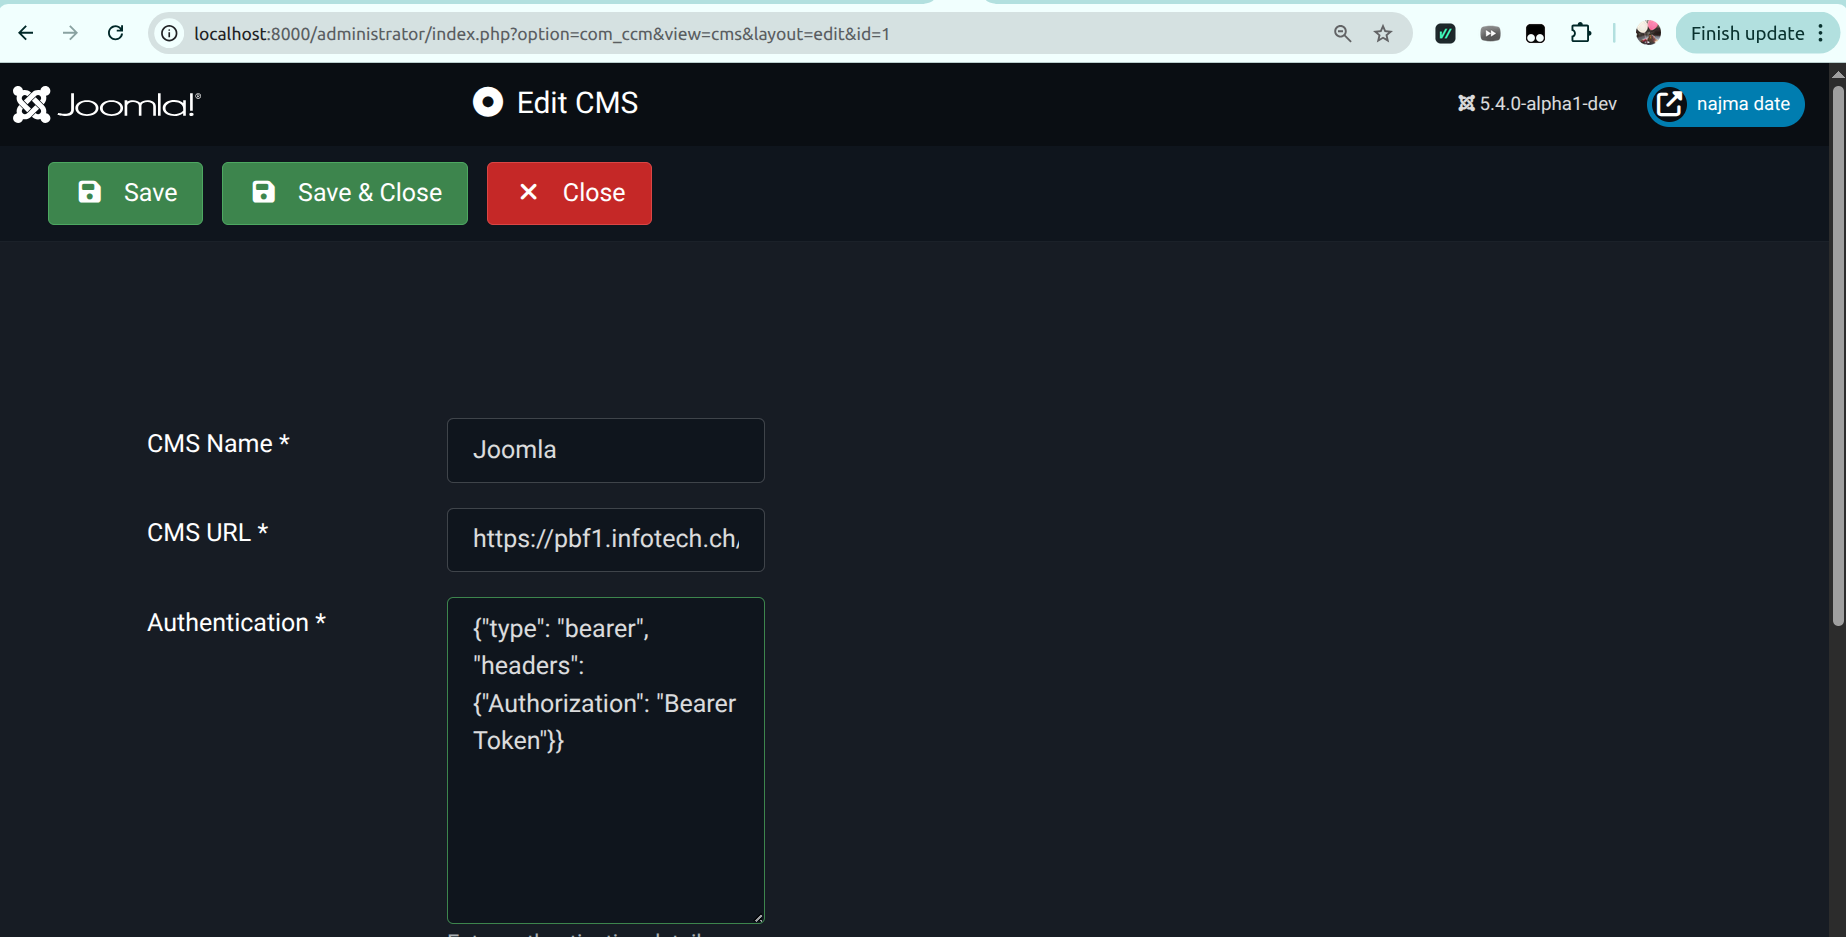
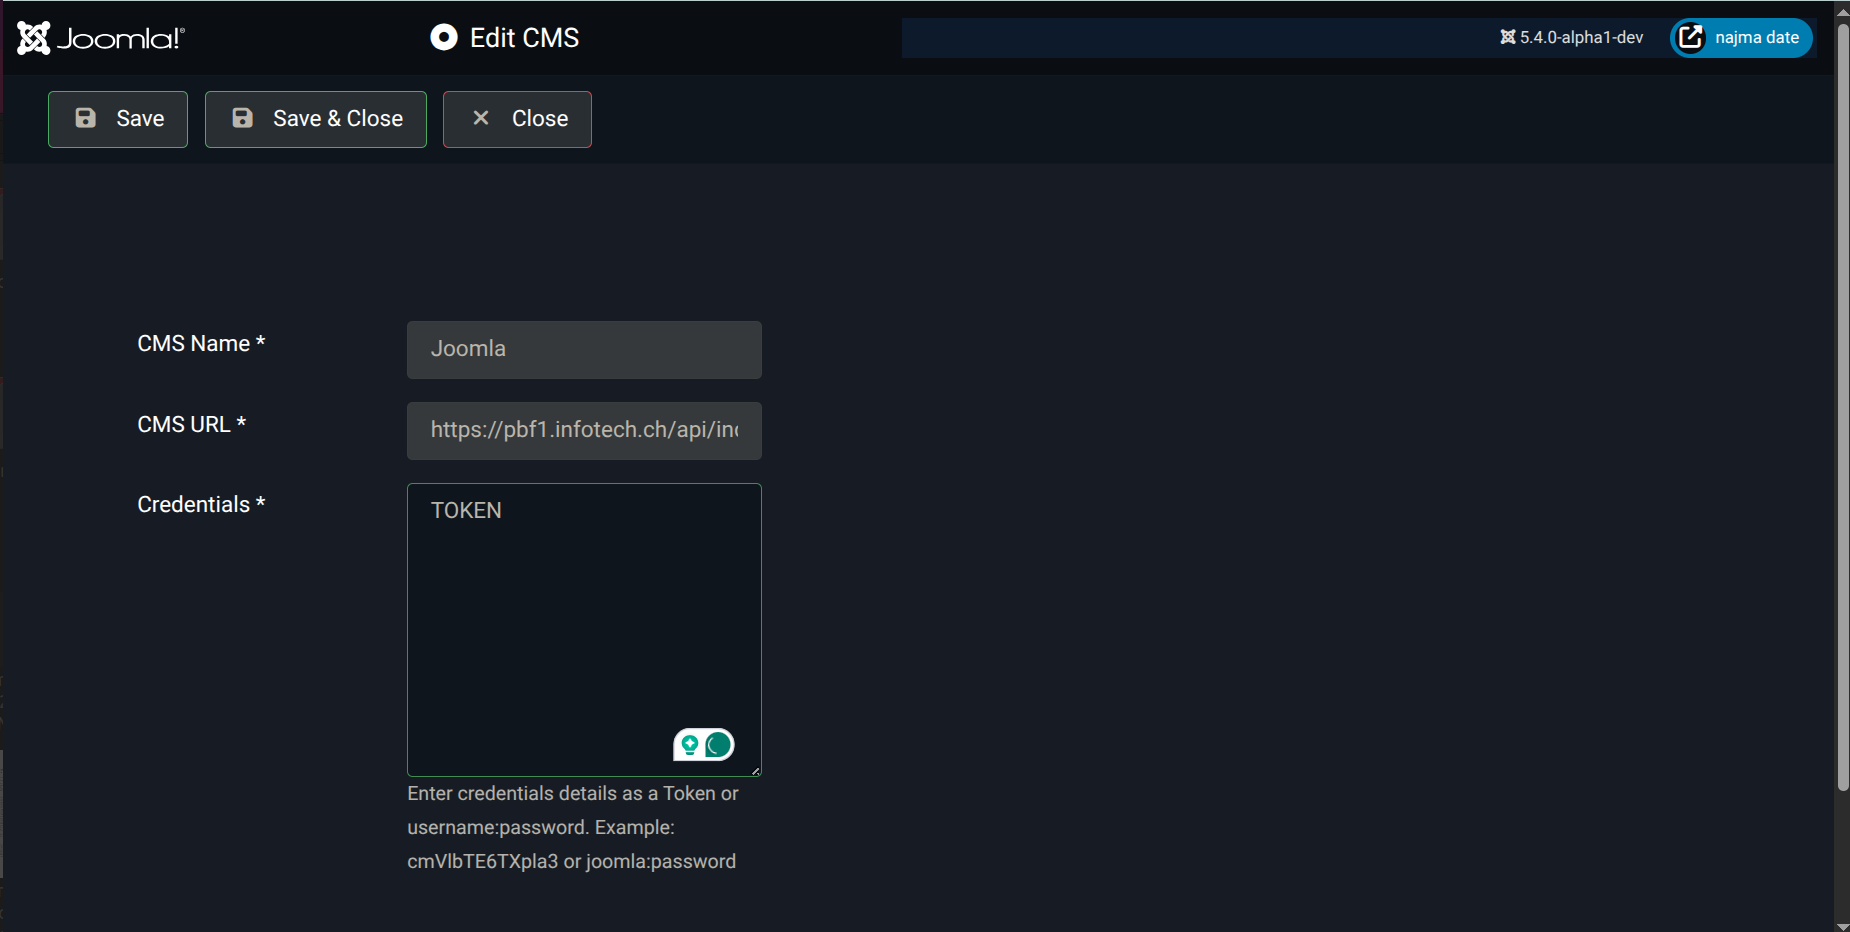
update the authentication guidance in the user guide

diff --git a/docs/USER_GUIDE.md b/docs/USER_GUIDE.md
@@ -42,7 +42,7 @@ The component will automatically create the required database tables upon instal
 3. Update the CMS details:
    - **Name**: Descriptive name for the CMS
    - **URL**: Base URL of the source CMS
-   - **Credentials**: API keys or authentication details. Refer to [Auth Guidance](AUTHENTICATION_GUIDE.md) for developer details.
+   - **Credentials**: API keys or authentication details. Follow the next steps to get the credentials. Refer to [Auth Guidance](AUTHENTICATION_GUIDE.md) for developer details.
 
 ### 2. Obtaining CMS Credentials & Adding them in Joomla CMS
 
@@ -58,10 +58,8 @@ Before you can migrate content, you need to obtain the proper API credentials fo
    - Copy the generated password
    - In CMS Management, choose "WordPress"
    ![CMSs Page image](images/cmss.png)
-   - We need a base64 generator (e.g., [Base64 Encode](https://www.debugbear.com/basic-auth-header-generator))
-   put your WordPress username and password, then take the generated authentication (e.g. Authorization: Basic UmVlbTpQYXNzd29yZA==) 
-   ![WordPress CMS Auth image](images/wordpress%20auth.png)
-   - Add them in the WordPress auth
+   - We need the username and the password.
+   - Add them in the WordPress credentials like the following:
    ![WordPress CMS Page image](images/wordpress%20cms.png)
 
 #### For Joomla
@@ -73,7 +71,7 @@ Before you can migrate content, you need to obtain the proper API credentials fo
    - Click **Save**
    - Copy the generated token
    - In CMS Management, choose "Joomla"
-   - Add the generated token with 'Bearer' before it.
+   - Add the generated token.
    ![Joomla CMS Page image](images/joomla%20cms.png)
 
 > **Security Note**: Always use dedicated API credentials with minimal required permissions. Never use your main administrator password for API access.
